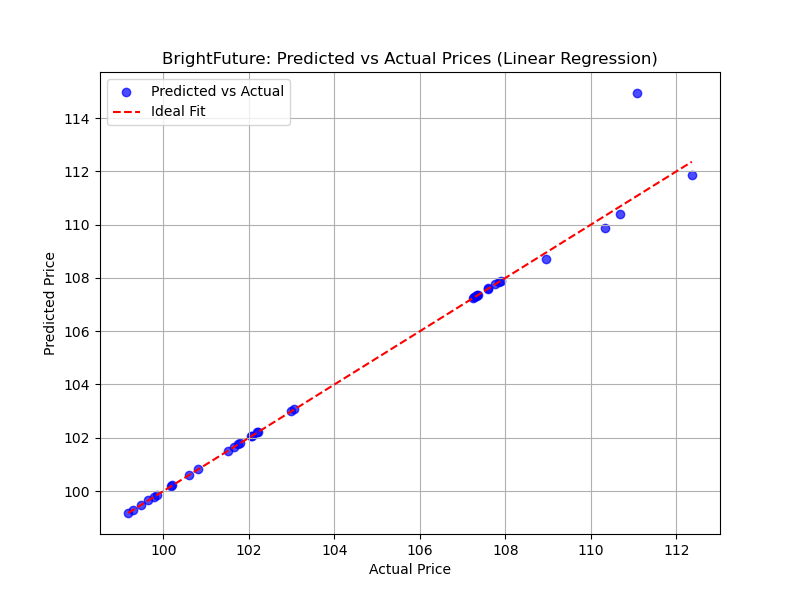
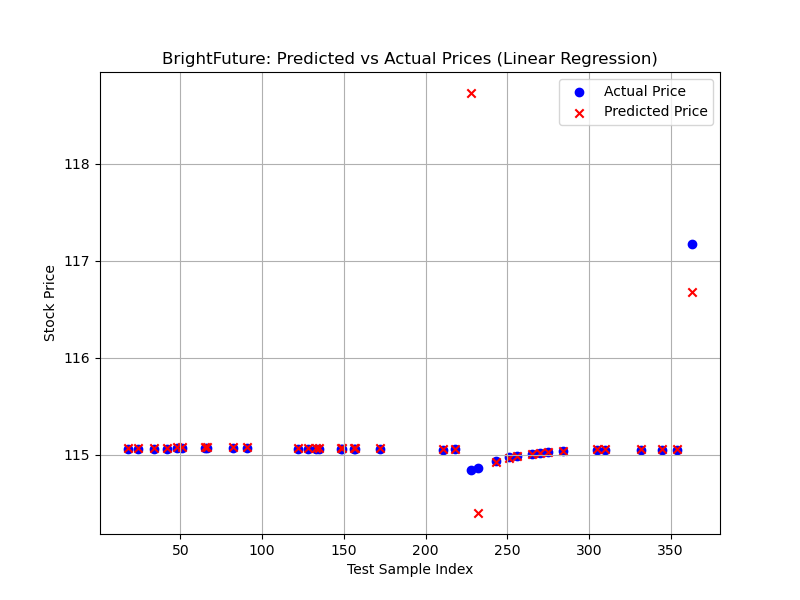
added differencing

diff --git a/QFC_fin_modelling_template.py b/QFC_fin_modelling_template.py
@@ -105,36 +105,53 @@ class Context:
         for stock in self.historical_prices.keys():
             data = self.historical_prices[stock].copy()
 
-            for i in range(1, self.window_size + 1):
-                data[f"Price_Lag_{i}"] = data["Price"].shift(i)
+            # Apply differencing to remove trend
+            data["Price_Diff"] = data["Price"].diff()  # Difference between consecutive prices
+            data = data.dropna()  # Drop NaN values created by differencing
 
+            # Create lagged features on differenced data
+            for i in range(1, self.window_size + 1):
+                data[f"Price_Lag_{i}"] = data["Price_Diff"].shift(i)
+
+            # Drop rows with NaN values after creating lagged features
             data = data.dropna()
 
+            # Extract features (X) and target (y)
             X = data[[f"Price_Lag_{i}" for i in range(1, self.window_size + 1)]]
-            y = data["Price"]
+            y = data["Price_Diff"]  # We are predicting the difference in price (first differenced)
 
+            # Split data into training and testing sets
             X_train, X_test, y_train, y_test = train_test_split(X, y, test_size=0.1, random_state=42)
 
+            # Train Linear Regression model
             model = LinearRegression()
             model.fit(X_train, y_train)
 
-            y_pred = model.predict(X_test)
+            # Make predictions on the test set (predict the difference in price)
+            y_pred_diff = model.predict(X_test)
 
-            # Plot y_test vs y_pred
+            # To predict the actual price, add the predicted difference to the actual price
+            # Assuming the last known price is in the last row of the test set
+            last_known_price = self.historical_prices[stock]["Price"].iloc[-1]  # Latest actual price
+            predicted_prices = last_known_price + y_pred_diff  # Add predicted price change
+
+            # Correct Plot: Plot predicted actual prices vs actual prices
             plt.figure(figsize=(8, 6))
-            plt.scatter(y_test, y_pred, alpha=0.7, color="blue", label="Predicted vs Actual")
-            plt.plot([y_test.min(), y_test.max()], [y_test.min(), y_test.max()], color="red", linestyle="--", label="Ideal Fit")
-            plt.xlabel("Actual Price")
-            plt.ylabel("Predicted Price")
+            plt.scatter(y_test.index, y_test + last_known_price, label="Actual Price", color="blue", marker="o")  # Actual prices
+            plt.scatter(y_test.index, predicted_prices, label="Predicted Price", color="red", marker="x")  # Predicted prices
+            plt.xlabel("Test Sample Index")
+            plt.ylabel("Stock Price")
             plt.title(f"{stock}: Predicted vs Actual Prices (Linear Regression)")
             plt.legend()
             plt.grid(True)
             plt.savefig(f"{stock}_predicted_vs_actual.png")
             plt.close()  # Close the plot to avoid overlapping figures
 
-            mse = mean_squared_error(y_test, y_pred)
+            # Calculate and print Mean Squared Error (MSE)
+            mse = mean_squared_error(y_test, y_pred_diff)
             print(f"{stock} Model MSE: {mse:.2f}")
 
+            # Store the trained model
             self.models[stock] = model
 
     def predict(self) -> dict:
